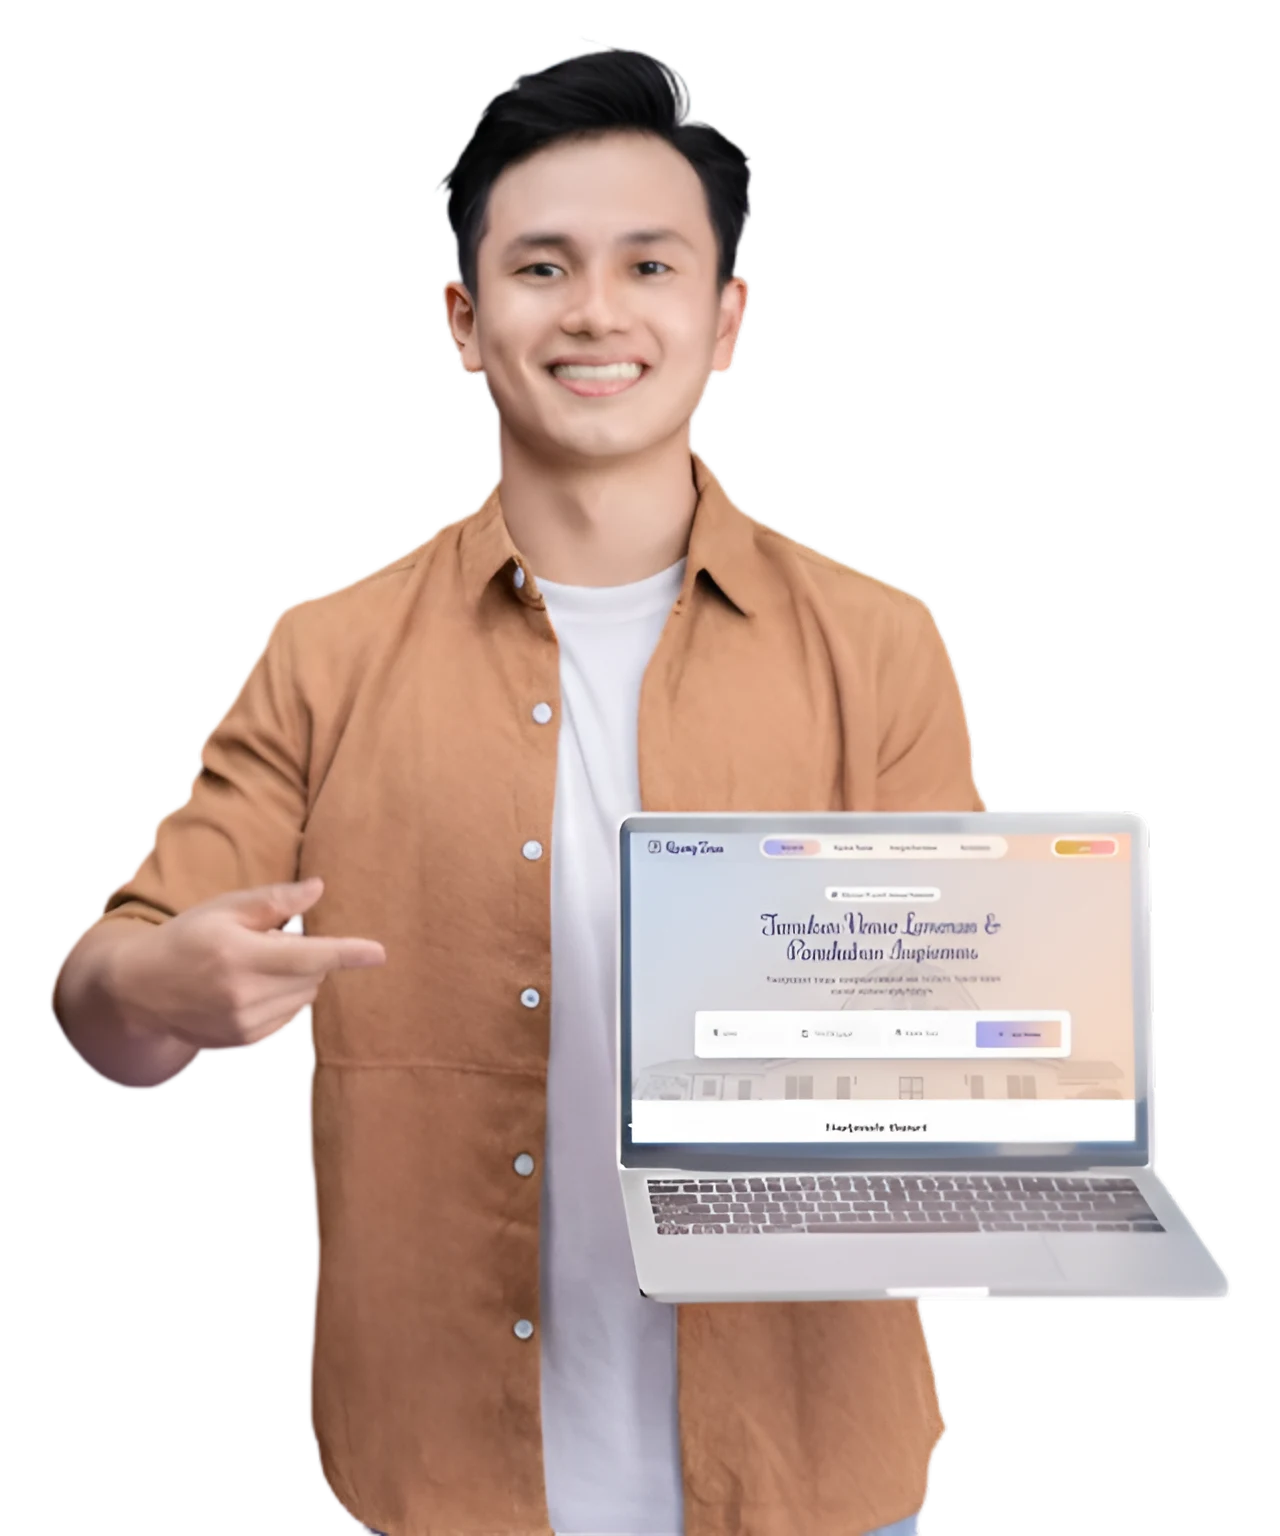
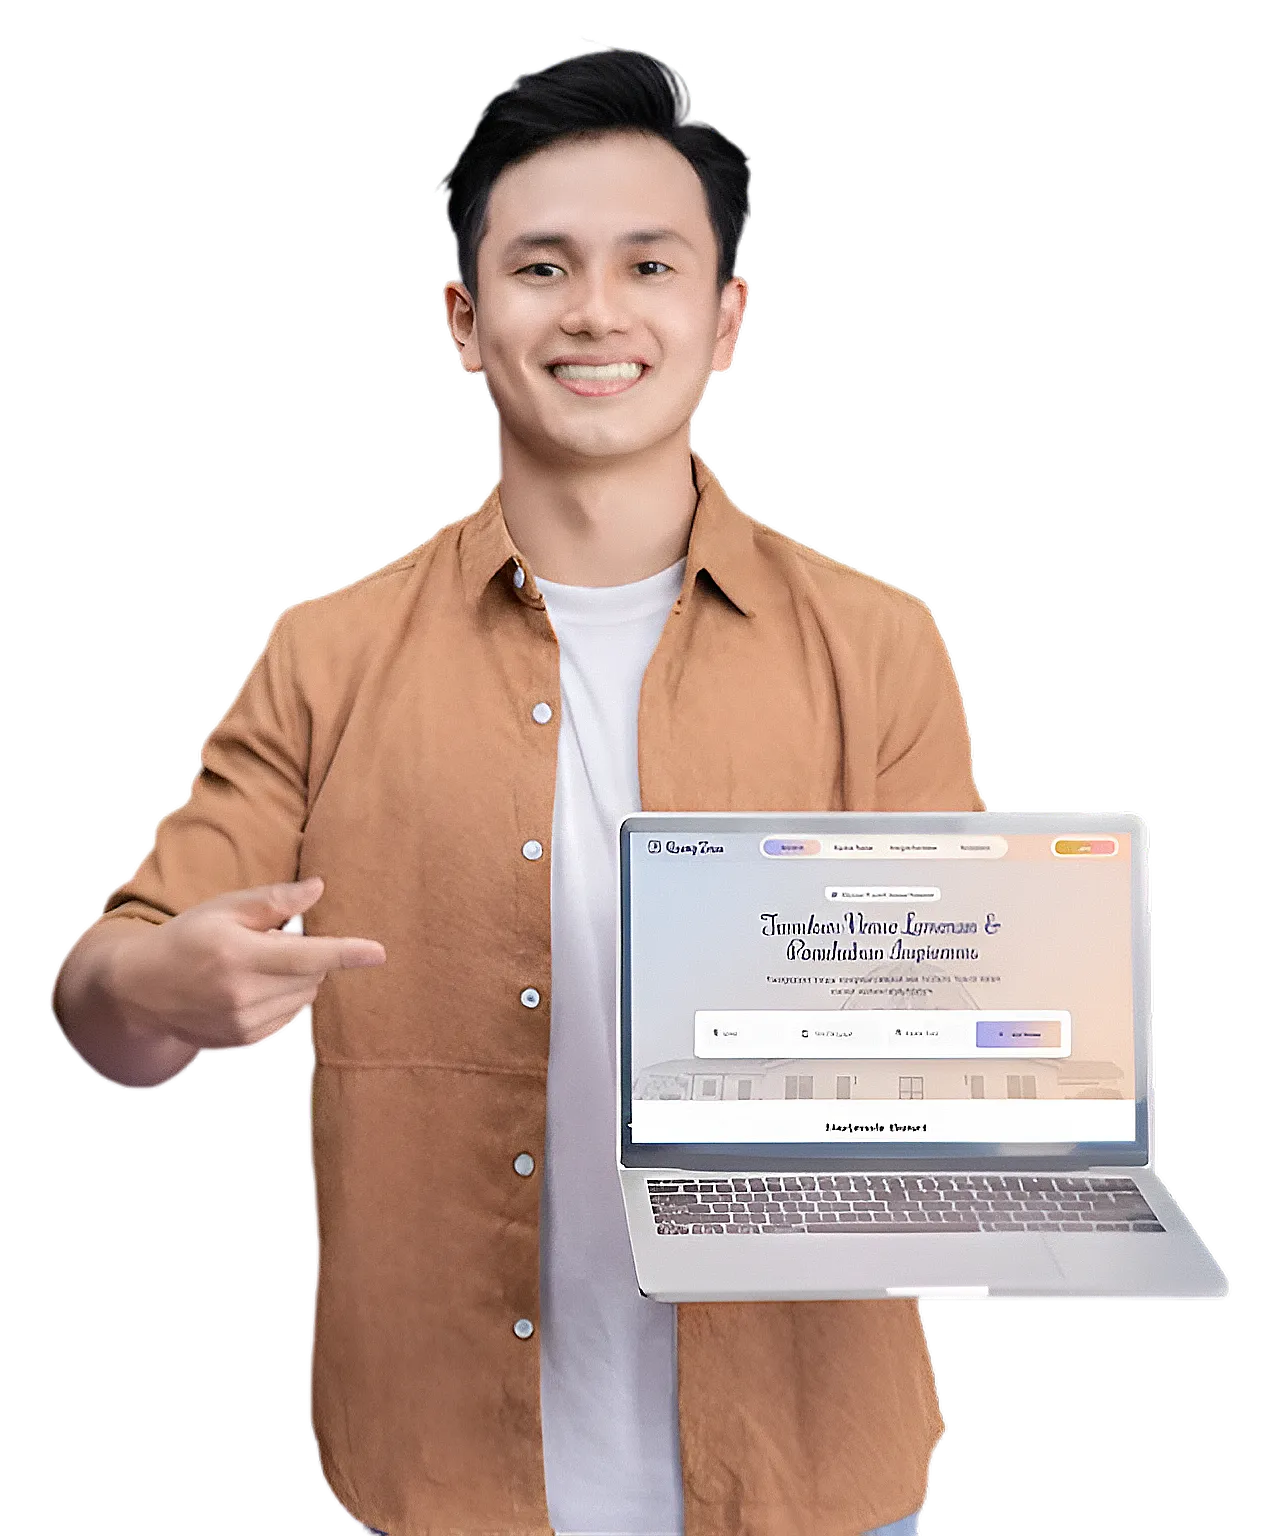
update landing

diff --git a/src/components/LandingCurtain.tsx b/src/components/LandingCurtain.tsx
@@ -1,4 +1,4 @@
-import { useState } from "react";
+import { useEffect, useState } from "react";
 import { motion, AnimatePresence } from "framer-motion";
 import { useNavigate } from "react-router-dom";
 import useIsMobile from "../hooks/UseIsMobile";
@@ -6,6 +6,7 @@ import Button from "./atoms/Button";
 import { FaChevronDown } from "react-icons/fa";
 import { Navbar } from "./Navbar";
 import { useAuth } from "./AuthContext";
+import { ImageWithFallback } from "./figma/ImageWithFallback";
 
 type LandingProps = {
   layoutMessage: string;
@@ -42,76 +43,101 @@ const LandingCurtain = (props: LandingProps) => {
     navigate(path);
   };
 
-  return (
-    <AnimatePresence>
-      {!isLeaving && (
-        <motion.div
-          className="fixed inset-0 z-[9999] bg-white overflow-hidden cursor-pointer"
-          onClick={handleOpenCurtain}
-          initial={{ y: 0 }}
-          animate={{ y: 0 }}
-          exit={{ y: "-100%" }}
-          transition={{ duration: 1.2, ease: "easeInOut" }}
-        >
-          <div className="flex flex-col w-full h-full">
-            <Navbar
-              currentPage={location.pathname.replace("/", "")}
-              onNavigate={handleProtectedNavigation}
-            />
+  useEffect(() => {
+  if (!isLeaving) {
+    document.body.style.overflow = "hidden";
+  } else {
+    document.body.style.overflow = "";
+  }
 
-            <div className="flex-grow bg-ruangTemu bg-no-repeat bg-center bg-cover bg-fixed">
-              {/* MOBILE */}
-              {isMobile ? (
-                  <div className="relative w-full h-full flex flex-col items-center justify-center">
-                  {/* Background Image */}
-                  <div
-                    className="absolute inset-0 bg-cover bg-center"
-                    style={{
-                      backgroundImage: "url('/assets/img/banner-mobile.webp')",
-                    }}
-                  ></div>
+  // Cleanup saat unmount atau ketika isLeaving berubah
+  return () => {
+    document.body.style.overflow = "";
+  };
+}, [isLeaving]);
 
-                  {/* Overlay gelap */}
-                  <div className="absolute inset-0 bg-black/60 z-0"></div>
+return (
+  <AnimatePresence>
+    {!isLeaving && (
+      <motion.div
+        className="fixed inset-0 z-[9999] bg-white overflow-hidden cursor-pointer"
+        onClick={handleOpenCurtain}
+        initial={{ y: 0 }}
+        animate={{ y: 0 }}
+        exit={{ y: "-100%" }}
+        transition={{ duration: 1.2, ease: "easeInOut" }}
+      >
+        <div className="flex flex-col w-full h-full">
+          <Navbar
+            currentPage={location.pathname.replace("/", "")}
+            onNavigate={handleProtectedNavigation}
+          />
 
-                  {/* Konten utama */}
-                  <div className="relative z-10 flex flex-col items-center justify-center flex-grow text-center px-6">
-                    <img
-                      src="/assets/img/logo-fix-white.png"
-                      alt="Logo"
-                      className="w-32 sm:w-40 object-contain drop-shadow-lg mb-6"
-                    />
+          <div className="flex-grow bg-ruangTemu bg-no-repeat bg-center bg-cover bg-fixed">
+            {/* MOBILE */}
+            {isMobile ? (
+              <div className="relative w-full h-full flex flex-col items-center justify-center">
+                {/* Background Image */}
+                <div
+                  className="absolute inset-0 bg-cover bg-center"
+                  style={{
+                    backgroundImage: "url('/assets/img/banner-mobile.webp')",
+                  }}
+                ></div>
 
-                    <h1 className="text-5xl sm:text-4xl font-dancingScript font-bold text-white drop-shadow-lg mb-3">
-                      Ruang Temu
-                    </h1>
+                {/* Overlay gelap */}
+                <div className="absolute inset-0 bg-black/60 z-0"></div>
 
-                    <p className="text-md mt-2 sm:text-lg text-white/90 font-poppins max-w-md">
-                      {layoutMessage}
-                    </p>
-                  </div>
+                {/* Konten utama */}
+                <div className="relative z-10 flex flex-col items-center justify-center flex-grow text-center px-6">
+                  <img
+                    src="/assets/img/logo-fix-white.png"
+                    alt="Logo"
+                    className="w-32 sm:w-40 object-contain drop-shadow-lg mb-6"
+                  />
 
-                  {/* Tombol di bawah */}
-                  <div className="relative z-10 w-full flex justify-center mb-10">
-                    <Button
-                      message=""
-                      onClick={handleOpenCurtain}
-                      variant="min-h-12 w-full mx-8 bg-secondColor hover:bg-mainColorHover text-white px-8 rounded-full font-poppins transition-all duration-300"
-                    >
-                      Eksplor Sekarang
-                    </Button>
-                  </div>
+                  <h1 className="text-5xl sm:text-4xl font-dancingScript font-bold text-white drop-shadow-lg mb-3">
+                    Ruang Temu
+                  </h1>
+
+                  <p className="text-md mt-2 sm:text-lg text-white/90 font-poppins max-w-md">
+                    {layoutMessage}
+                  </p>
                 </div>
-              ) : (
-                /* DESKTOP */
-                <div className="flex flex-col lg:flex-row w-full h-full relative bg-cover bg-center">
-                  {/* Kiri */}
-                  <div className="flex flex-col justify-center items-start w-full lg:w-1/2 px-12 lg:px-16">
+
+                {/* Tombol di bawah */}
+                <div className="relative z-10 w-full flex justify-center mb-10">
+                  <Button
+                    message=""
+                    onClick={handleOpenCurtain}
+                    variant="min-h-12 w-full mx-8 bg-secondColor hover:bg-mainColorHover text-white px-8 rounded-full font-poppins transition-all duration-300"
+                  >
+                    Eksplor Sekarang
+                  </Button>
+                </div>
+              </div>
+            ) : (
+              /* DESKTOP */
+              <div className="relative flex flex-col lg:flex-row w-full h-full overflow-hidden">
+                {/* Background */}
+                <div className="absolute inset-0 z-0">
+                  <ImageWithFallback
+                    src="https://images.unsplash.com/photo-1674924258890-f4a5d99bb28c?crop=entropy&cs=tinysrgb&fit=max&fm=jpg&q=80&w=1080"
+                    alt="Wedding venue"
+                    className="w-full h-full object-cover"
+                  />
+                  {/* Overlay gradien semi-transparan */}
+                  <div className="absolute inset-0 bg-ruangTemu opacity-70"></div>
+                </div>
+
+                {/* Konten */}
+                <div className="relative z-10 flex flex-col lg:flex-row w-full h-full">
+                  <div className="flex mt-48 flex-col justify-center items-start w-full lg:w-1/2 px-12 lg:px-16">
                     <h1 className="text-4xl lg:text-5xl font-dancingScript font-bold text-mainColor leading-tight drop-shadow-lg">
                       {layoutTitle} {layoutSubtitle}
                     </h1>
 
-                    <p className="mt-4 text-lg text-rajutGray text-justify drop-shadow-md">
+                    <p className="mt-4 text-md text-rajutGray text-justify drop-shadow-md">
                       {layoutMessage}
                     </p>
 
@@ -121,13 +147,29 @@ const LandingCurtain = (props: LandingProps) => {
                         onClick={handleOpenCurtain}
                         variant="min-h-10 min-w-[200px] bg-mainColor hover:bg-mainColorHover text-white px-6 rounded-full font-poppins"
                       >
-                        Eksplor Venue
+                        Eksplor Sekarang
                       </Button>
+                    </div>
+                    <div className="mt-10 w-full mb-20 flex sm:flex-row justify-center lg:justify-around items-center gap-8 text-center text-rajutGray font-light">
+                      <div>
+                        <p className="text-3xl font-semibold text-mainColor">1.5K+</p>
+                        <p className="text-sm">Pasangan Bahagia</p>
+                      </div>
+                      <div className="hidden sm:block w-[1px] h-10 bg-mainColor/30"></div>
+                      <div>
+                        <p className="text-3xl font-semibold text-mainColor">300+</p>
+                        <p className="text-sm">Venue Tersedia</p>
+                      </div>
+                      <div className="hidden sm:block w-[1px] h-10 bg-mainColor/30"></div>
+                      <div>
+                        <p className="text-3xl font-semibold text-mainColor">250+</p>
+                        <p className="text-sm">Vendor Tergabung</p>
+                      </div>
                     </div>
                   </div>
 
                   {/* Kanan */}
-                  <div className="w-full lg:w-1/2 relative">
+                  <div className="w-full lg:w-1/2 relative z-10">
                     <img
                       src="/assets/img/blob.webp"
                       alt="Blob Background"
@@ -140,19 +182,21 @@ const LandingCurtain = (props: LandingProps) => {
                     />
                   </div>
                 </div>
-              )}
-            </div>
+              </div>
+            )}
+          </div>
 
-            {!isMobile && (
+          {!isMobile && (
             <div className="absolute bottom-6 w-full flex justify-center gap-2 text-center text-mainColor font-bold text-sm animate-pulse">
               Klik untuk melanjutkan <FaChevronDown className="mt-1" />
             </div>
-            )}
-          </div>
-        </motion.div>
-      )}
-    </AnimatePresence>
-  );
+          )}
+        </div>
+      </motion.div>
+    )}
+  </AnimatePresence>
+);
+
 };
 
 export default LandingCurtain;

diff --git a/tailwind.config.ts b/tailwind.config.ts
@@ -8,7 +8,7 @@ const config: Config = {
   theme: {
     extend: {
       minHeight: {
-        "screen-default": "calc(100vh - 4rem)",
+        "screen-default": "calc(100dvh - 4rem)",
         "screen-half": "calc(60vh - 4rem)",
       },
       width: {
@@ -71,6 +71,7 @@ const config: Config = {
       },
       backgroundImage: {
         ruangTemu: "linear-gradient(135deg, #c3d4ef, #ffd4b8)",
+        ruangTemuBrown: "linear-gradient(120deg, rgba(91,68,53,0.7), rgba(216,196,177,0.6), rgba(244,233,221,0.5))",
         ruangTemuAmbient: "linear-gradient(to top, #c3d4ef, #ffd4b8, transparent)",
         ruangTemuBold: "linear-gradient(135deg, #103158, #f16210)",
         ruangTemuLight: "linear-gradient(to right, #a8b1fcff, #ffd4b8)",

diff --git a/src/App.tsx b/src/App.tsx
@@ -316,15 +316,11 @@ function AppRoutes() {
     }
   }, [user?.role]);
 
-  if (!hasSeenOnboarding) {
-    return <OnboardingScreen onComplete={() => setHasSeenOnboarding(true)} />;
-  }
-
   return (
     <>
-    <div className="min-h-screen bg-white">
+    <div className="min-h-screen-default bg-white">
       <Navbar currentPage={location.pathname.replace('/', '')} onNavigate={handleProtectedNavigation} />
-      <main className="pb-20 lg:pb-0">
+      <main className="pb-20 lg:pb-0 -mt-16">
         <LandingCurtain 
           layoutTitle="Selamat Datang di Ruang Temu"  
           layoutSubtitle=""

diff --git a/src/components/Navbar.tsx b/src/components/Navbar.tsx
@@ -44,10 +44,10 @@ export function Navbar({ currentPage, onNavigate }: NavbarProps) {
   };
 
   const menuItems = getMenuItems();
-
+  
   return (
     <>
-      <nav className={`sticky top-0 z-50 bg-ruangTemu py-1 backdrop-blur-md`}>
+      <nav className={`sticky top-0 z-50 py-1 backdrop-blur-md transition-colors duration-700 ease-in-out ${ isScroll ? "bg-ruangTemu" : "bg-transparent" }`}>
         <div className="max-w-8xl mx-auto px-4 sm:px-6 lg:px-8">
           <div className={`flex ${isMobile ? "justify-center" : "justify-between"} items-center h-16`}>
             {/* === LOGO (KIRI) === */}

diff --git a/src/components/Beranda.tsx b/src/components/Beranda.tsx
@@ -111,6 +111,7 @@ export function Beranda({ onVenueClick, onNavigate }: BerandaProps) {
             className="w-full h-full object-cover"
           />
         </div>
+        <div className="mt-16"></div>
         <div className="relative mt-28 sm:mt-0 max-w-7xl mx-auto px-4 sm:px-6 lg:px-8 h-full flex flex-col justify-center items-center text-center">
           <div className="inline-flex items-center gap-2 px-4 py-2 bg-white/90 rounded-full mb-6">
             <Sparkles className="w-4 h-4 text-mainColor" />

diff --git a/src/components/BudgetEstimator.tsx b/src/components/BudgetEstimator.tsx
@@ -106,6 +106,7 @@ export function BudgetEstimator() {
     <div className="min-h-screen bg-gradient-to-b from-white to-[#FFE4E9]/20">
       <div className="max-w-7xl mx-auto px-4 sm:px-6 lg:px-8 py-8">
         {/* Header */}
+        <div className="mt-16"></div>
         <div className="text-center mb-12">
           <div className="inline-flex items-center gap-2 px-4 py-2 bg-gradient-to-r from-[#F4E4C1] to-[#FFE4E9] rounded-full mb-4">
             <Calculator className="w-4 h-4 text-[#D4AF37]" />

diff --git a/src/components/EksplorVenue.tsx b/src/components/EksplorVenue.tsx
@@ -131,6 +131,7 @@ export function EksplorVenue({ onVenueClick }: EksplorVenueProps) {
     <div className="min-h-screen bg-gradient-to-b from-white to-[#FFE4E9]/20">
       <div className="max-w-7xl mx-auto px-4 sm:px-6 lg:px-8 py-8">
         {/* Header */}
+        <div className="mt-16"></div>
         <div className="mb-8">
           <h1 className="mb-2">Eksplor Venue</h1>
           <p className="text-gray-600">Temukan venue impian dengan filter dan AI Matchmaker</p>

diff --git a/src/index.css b/src/index.css
@@ -4001,7 +4001,7 @@ html {
 
 @font-face {
   font-family: 'DancingScript';
-  src: url('./assets/font/Rochester-Regular.ttf') format('truetype');
+  src: url('../assets/font/Rochester-Regular.ttf') format('truetype');
   font-weight: normal;
   font-style: normal;
 }
